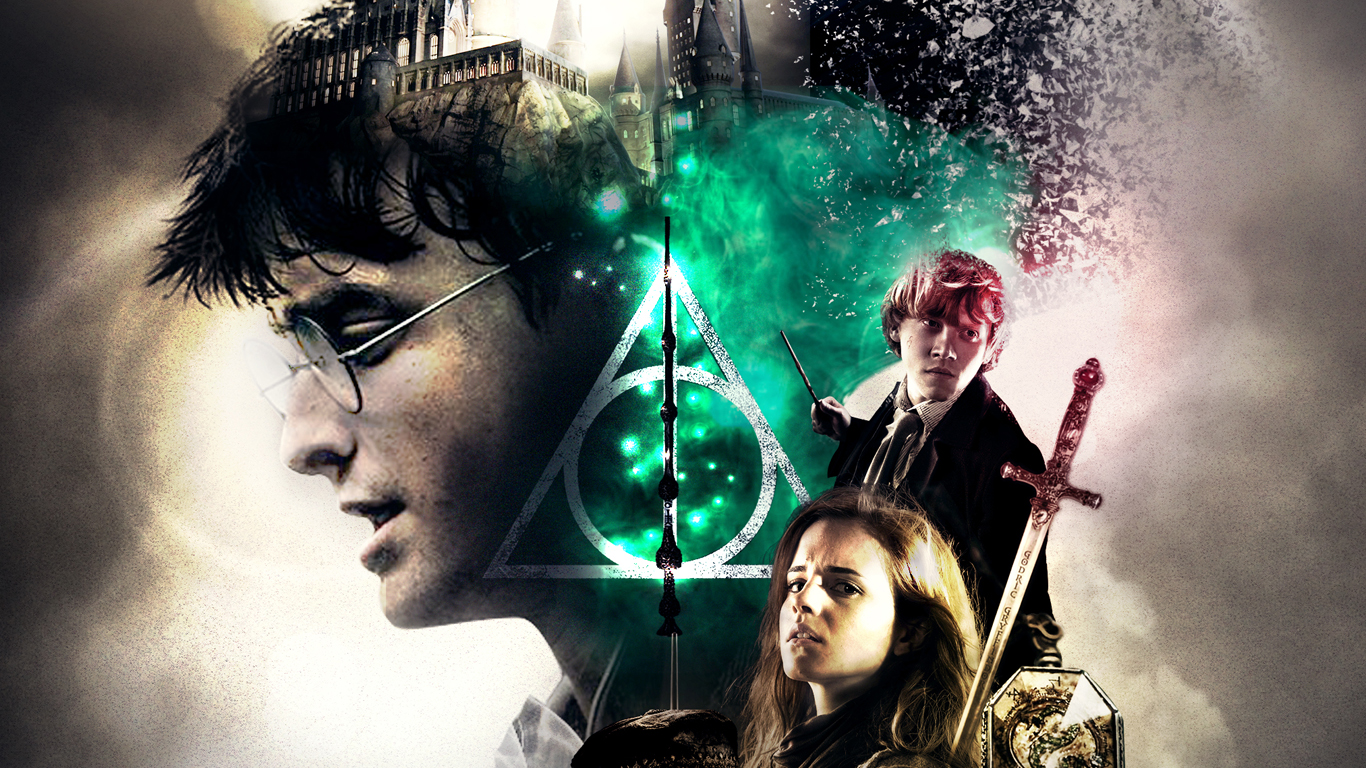
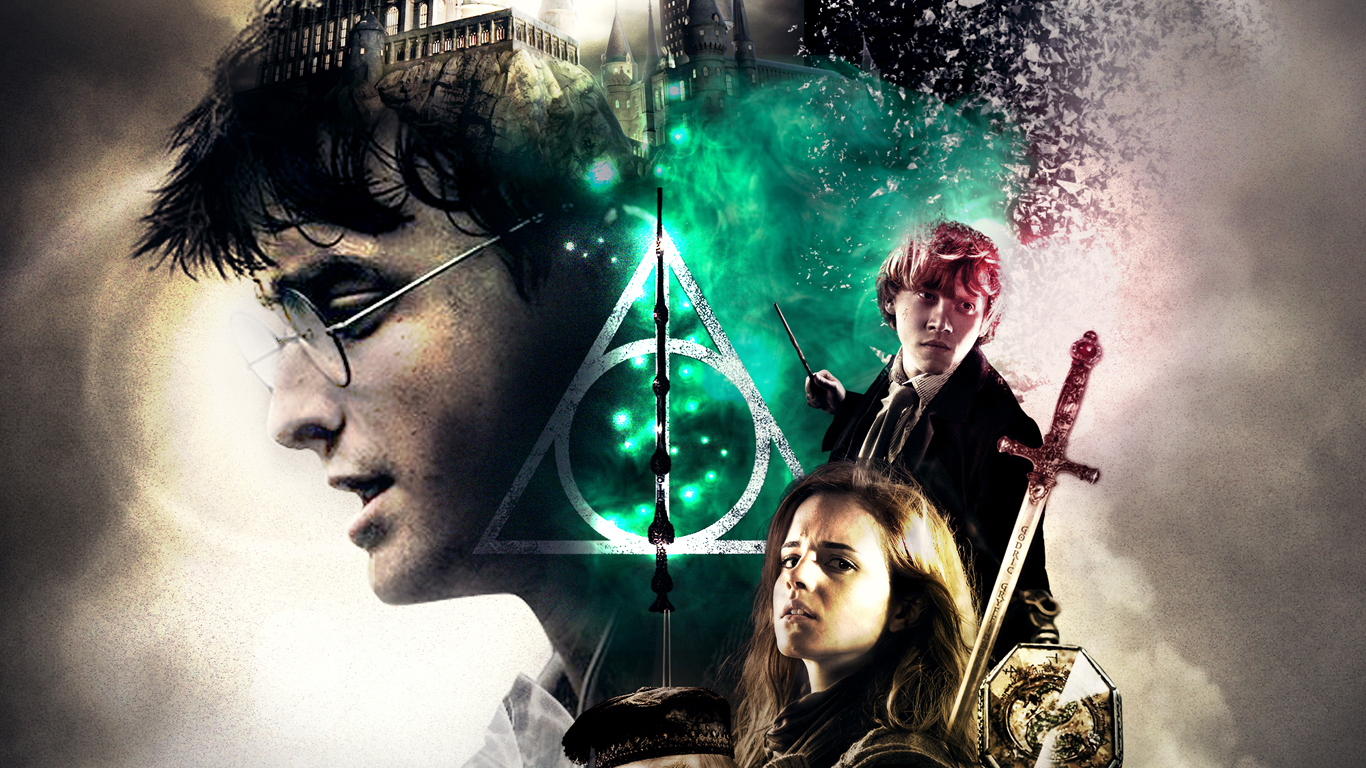
구성 수정 및 애니메이션 추가

diff --git a/css/style.css b/css/style.css
@@ -1,0 +1,157 @@
+/* COMMON */
+*{
+    margin: 0;
+    padding: 0;
+    height: 100%;
+}
+img{
+    display: block;
+    box-sizing: border-box;
+}
+a{
+    text-decoration: none;
+}
+body{
+    font-family: 'Noto Sans KR', 'Open Sans', sans-serif ;
+}
+
+
+/* INTRO */
+.intro{
+    position: relative;
+    width: 100%;
+    height: 100%;
+}
+.intro .img {
+    width: 100%;
+    background: url("../images/해리포터_포스터디자인_bg.jpg");
+    background-attachment: fixed;
+    background-repeat: no-repeat;
+    background-position: center;
+    background-size: cover;
+}
+.intro .title{
+    position: absolute;
+    top: 50%;
+    left: 50%;
+    transform: translate(-50%, -50%);
+    opacity: 0;
+    transition: all 1s;
+}
+.intro .title.on{
+    opacity: 1;
+}
+.intro h2{
+    position: absolute;
+    top: 60%;
+    right: 10%;
+    font-size: 50px;
+    color: chartreuse;
+}
+
+
+/* CONTENT */
+.content{
+    position: relative;
+}
+.content .image{
+    position: relative;
+    width: 50%;
+}
+.content .image img{
+    position: absolute;
+    top: 50%;
+    left: 50%;
+    transform: translate(-50%, -50%);
+    opacity: 0;
+    transition: all 3s;
+}
+.content .image.active img{
+    opacity: 1;
+}
+.content .text-group{
+    position: absolute;
+    top: 0;
+    right: 0;
+    width: 50%;
+}
+.content .text-group .text{
+    position: absolute;
+    top: 50%;
+    left: 50%;
+    transform: translate(-50%, -50%);
+    width: 100%;
+    height: 50%;
+}
+.content .text-group .text h1{
+    position: absolute;
+    top: 0;
+    left: 50%;
+    transform: translate(-50%, -50%);
+    height: 15%;
+}
+.content .text-group .has-ani span{
+    opacity: 0;
+}
+.has-ani.animate-in span{
+    animation: textHidden 0.1s 1.1s forwards;
+}
+.has-ani.animate-in:before, 
+.has-ani.animate-in:after {
+    content: '';
+    position: absolute;
+    top: 0;
+    right: 0;
+    height: 100%;
+    z-index: 10;
+}
+.has-ani.animate-in:before {
+    background-color: #001d3d;
+}
+.has-ani.animate-in:after {
+    background-color: #ffc300;
+    animation-delay: .5s;
+}
+.has-ani.ani-ltr.animate-in:before {
+    animation: revealLTR 1.8s ease;
+}
+.has-ani.ani-ltr.animate-in:after {
+    animation: revealLTR 1s .6s ease;
+}
+    @keyframes revealLTR {
+        0%   {width: 0; left: 0;}
+        65%  {width: 100%; left: 0;}
+        100% {width: 0; left: 100%;}
+    }
+    @keyframes textHidden {
+        0% {opacity: 0;}
+        100% {opacity: 1;}
+    }
+.content .text-group .text h2{
+    position: absolute;
+    top: -20%;
+    left: 50%;
+    transform: translate(-50%, -50%);
+    height: 20%;
+}
+.content .text-group .text .note{
+    position: absolute;
+    top: 40%;
+    left: 50%;
+    transform: translate(-50%, -50%);
+    width: 80%;
+    height: 20%;
+}
+
+/* FOOTER */
+.footer{
+    height: 100px;
+    background: #000;
+}
+.footer p{
+    color: #fff;
+    text-align: center;
+    display: flex;
+    justify-content: center;
+    align-items: center;
+}

diff --git a/index.html b/index.html
@@ -5,38 +5,67 @@
     <meta http-equiv="X-UA-Compatible" content="IE=edge">
     <meta name="viewport" content="width=device-width, initial-scale=1.0">
     <title>Document</title>
-    <link rel="stylesheet" href="./css/poster.css">
+    <link href="https://fonts.googleapis.com/css2?family=Noto+Sans+KR:wght@300;500;700&display=swap" rel="stylesheet">
+    <link href="https://fonts.googleapis.com/css2?family=Open+Sans:wght@300;500;700&display=swap" rel="stylesheet">
+    <link rel="stylesheet" href="./css/style.css">
+
+    <!-- jQuery -->
+    <!-- <script src="https://ajax.googleapis.com/ajax/libs/jquery/1.12.4jquery.min.js"></script>
+    <script src="https://ajax.googleapis.com/ajax/libs/jqueryui/1.12.1jquery-ui.min.js"></script> -->
+    <script src="http://code.jquery.com/jquery-1.10.1.min.js"></script>
+
+    <script defer src="./js/main.js"></script>
+
 </head>
 <body>
     <!-- INTRO -->
-    <div class="intro">
+    <div class="intro" id="page1">
 
-        <div class="img">
-            <h1>Harry Potter</h1>
-            <h2>poster desing</h2>
+        <div class="img"></div>
+
+        <div class="title">
+            <img src="./images/title.png" alt="title" class="has-ani ani-ltr">
+            <h2>poster design</h2>
         </div>
         
     </div>
 
 
     <!-- CONTENT -->
-    <div class="content">
+    <div class="content" id="page2">
 
         <div class="image">
-            <img src="./images/mockup.png" alt="mockup">
+            <img src="./images/mockup3.png" alt="mockup">
         </div>
         
-        <div class="text">
-            <p>설명</p>
+        <div class="text-group">
+            <div class="text">
+                <h1 class="has-ani ani-ltr">
+                    <span>Harry Potter</span>
+                </h1>
+            <div class="text">
+                <h2 class="has-ani ani-ltr">
+                    <span>Poster Design</span>
+                </h2>
+            </div>
+            
+            <div class="note">
+                <p>기간 : 2주</p>
+                <p>Liquify기능으로 이미지를 늘려준 다음 깨진 유리 모양의 브러쉬로 지워주며 깨진 느낌을 주었습니다.</p>
+                <p>Lens Flare기능으로 빛 효과를 주었고, layer를 추가하여 호그와트 고유의 색을 주었습니다.</p>
+                <p>배경은 황갈색과 남색을 섞어 좀 더 어두운 느낌을 주었습니다. </p>
+            </div>
+            </div>
         </div>
-
 
     </div>
 
+    <!-- FOOTER -->
     <div class="footer">
 
         <p>Thank you for coming.</p>
 
     </div>
+
 </body>
 </html>

diff --git a/js/main.js b/js/main.js
@@ -1,0 +1,24 @@
+$(function(){
+    $(window).resize(function(){ //이벤트 헨들링의 첫 시작이 setTimeout -> 이벤트 헨들링을 조종해주는 역할
+		h = $(window).height();
+		$("#page").css({height:h});//css속성을 줌으로써 자동적으로 px단위를 인식함
+	});
+	$(window).trigger("resize"); //강제로 실행(trigger)
+
+    setTimeout(function(){
+        $("html, body").animate({scrollTop : 0}, 600, function(){
+            $(".title").addClass("on");
+
+            $(window).scroll(function(){
+                const t = $(this).scrollTop();
+                console.log(t);
+                
+                if(t <= $("#page2").offset().top){
+                    $(".image").addClass("active");
+                    $(".has-ani").addClass("animate-in");
+                }
+            });
+        });
+    }, 150);
+});
+
